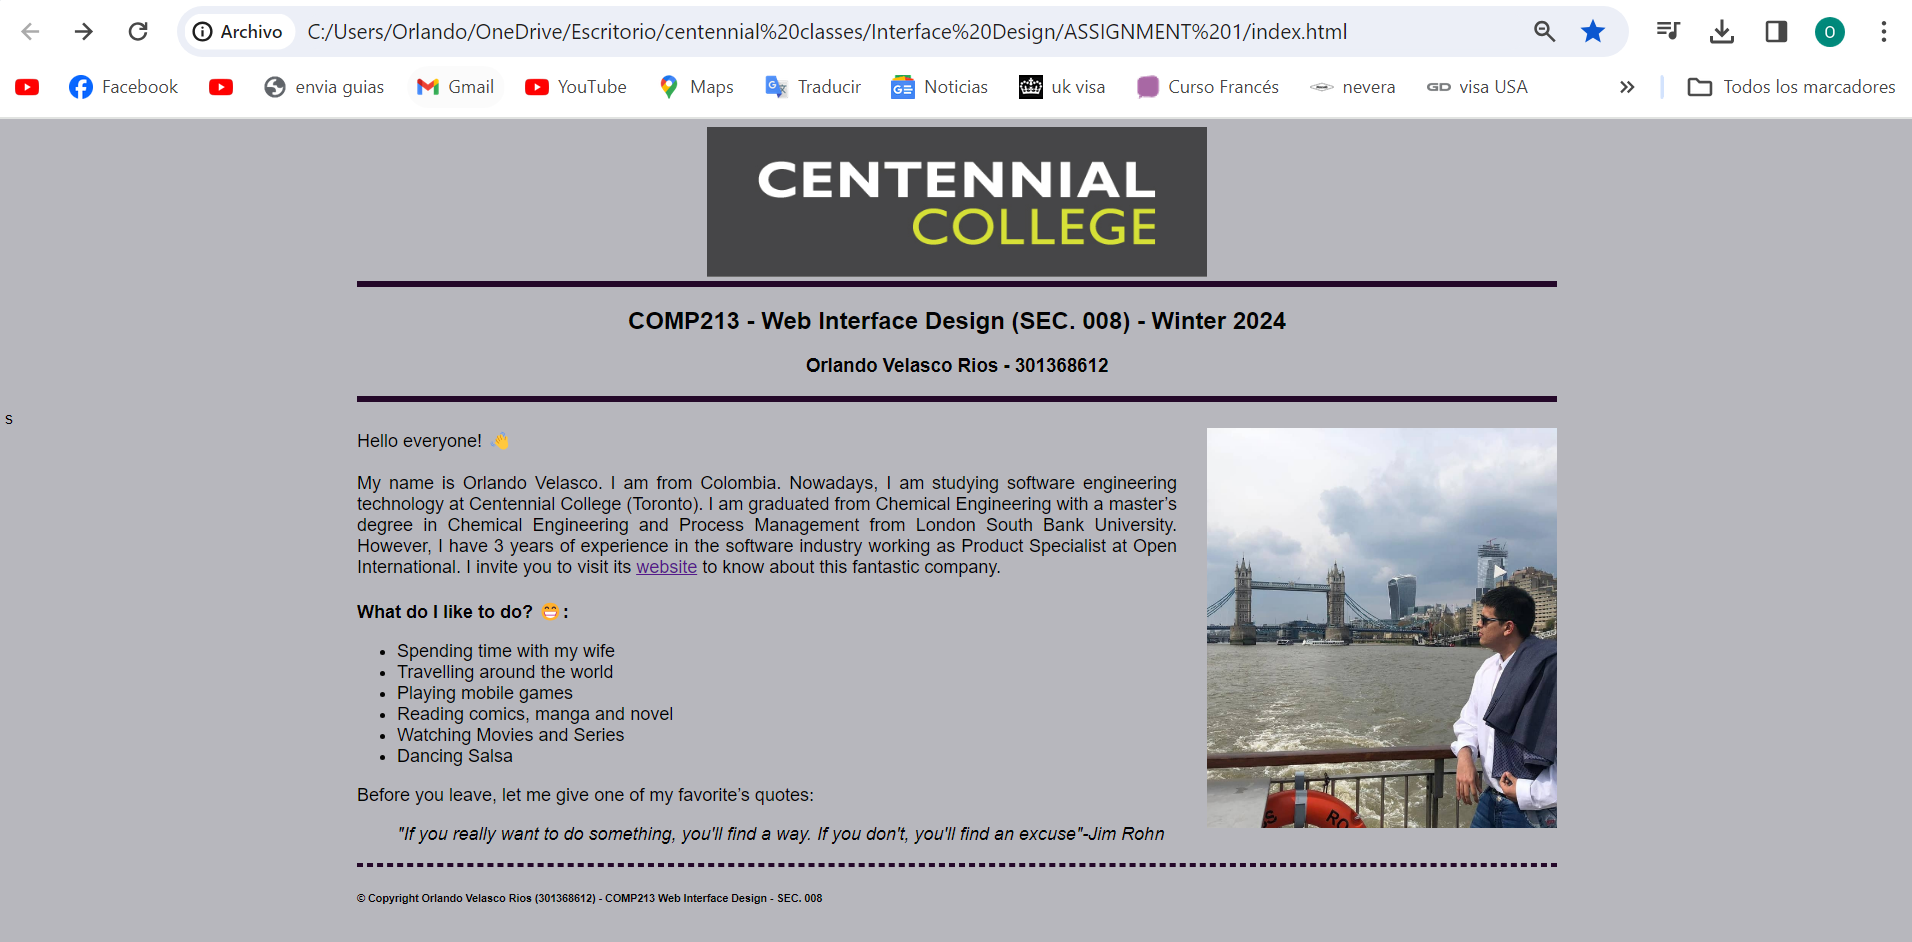
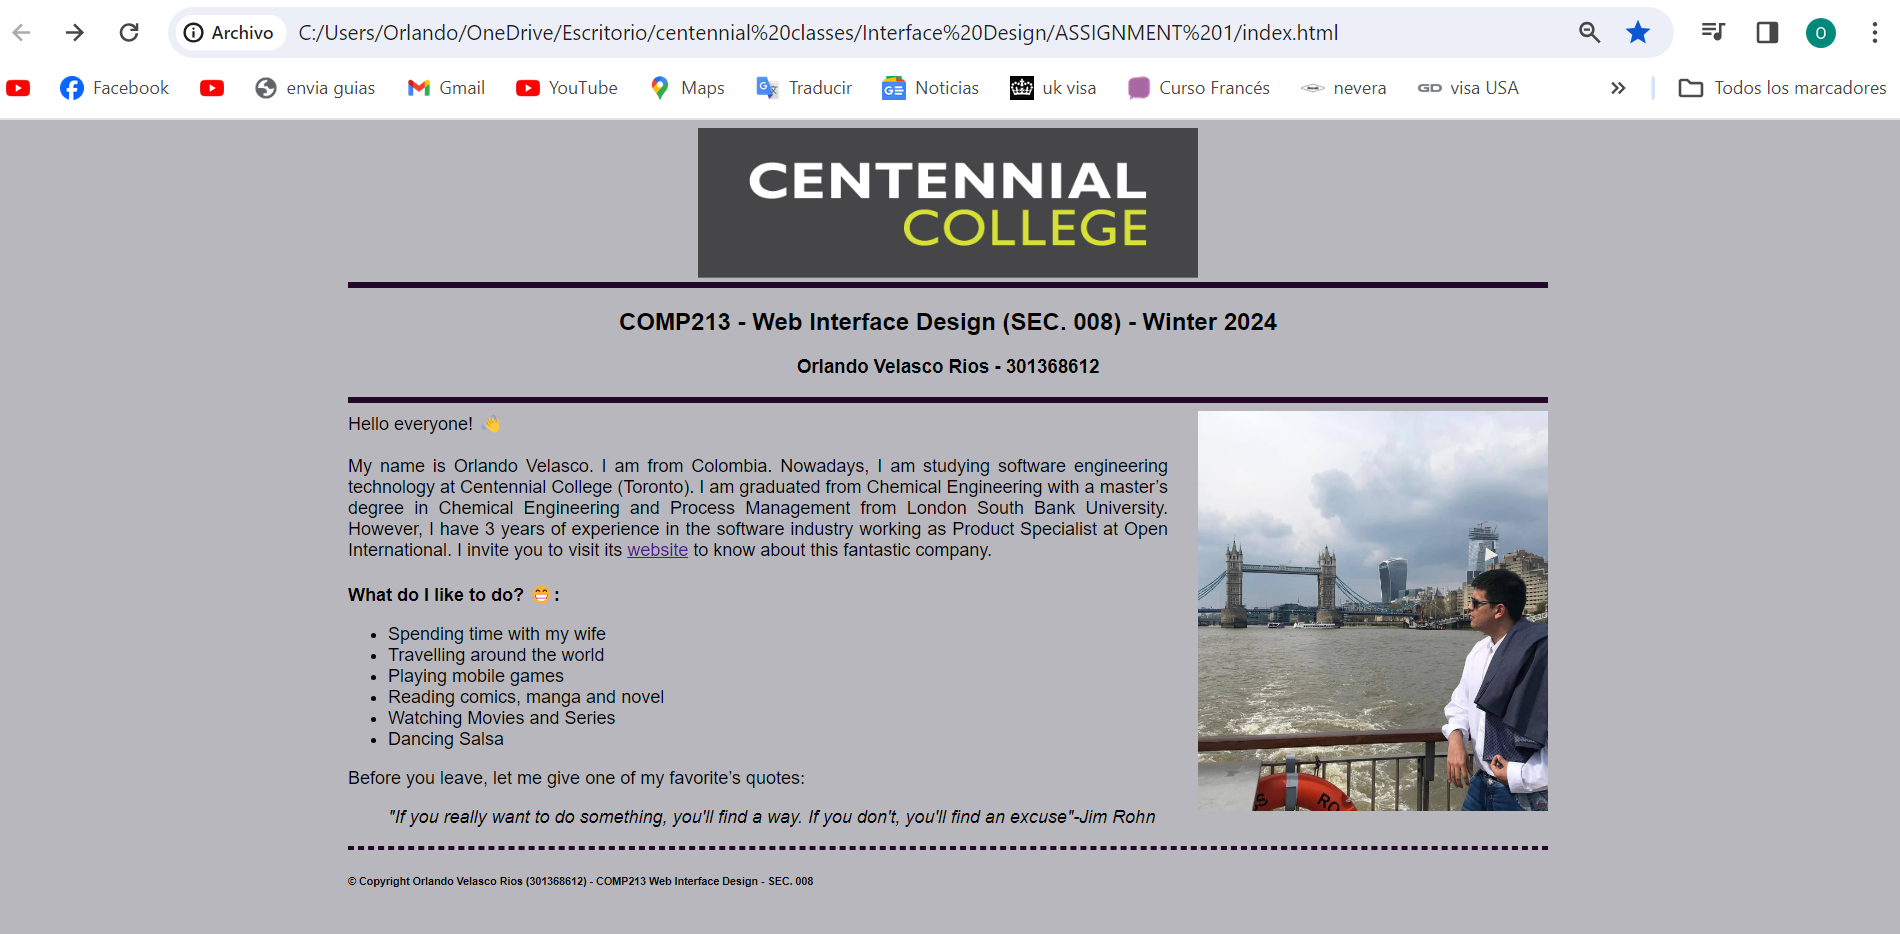
first commit

Changed region(s): [[0.0, 0.0, 1.0, 0.9625], [0.6832, 0.4968, 0.7142, 0.5278]]

diff --git a/ASSIGNMENT 1/index.html b/ASSIGNMENT 1/index.html
@@ -3,7 +3,7 @@
 <head>
     <meta charset="UTF-8">
     <meta name="viewport" content="width=device-width, initial-scale=1.0">
-    <title>Document</title>
+    <title>ASSIGNMENT #1</title>
 </head>
 <!--Created by: Orlando Velasco Rios -Student ID:301368612 on Jan 2024-->
 <body style="font-family:Arial; color:rgb(3, 3, 3); background-color:rgb(183, 183, 189);">
@@ -15,7 +15,7 @@
 <center><h3>Orlando Velasco Rios - 301368612</h3></center>
 <hr style="border-style:solid; border-color:rgb(36, 8, 41); border-width:3px;">
 </div>
-</header>s
+</header>
 
 <main>
 <div style="width:1200px; margin-left:auto; margin-right:auto;">
